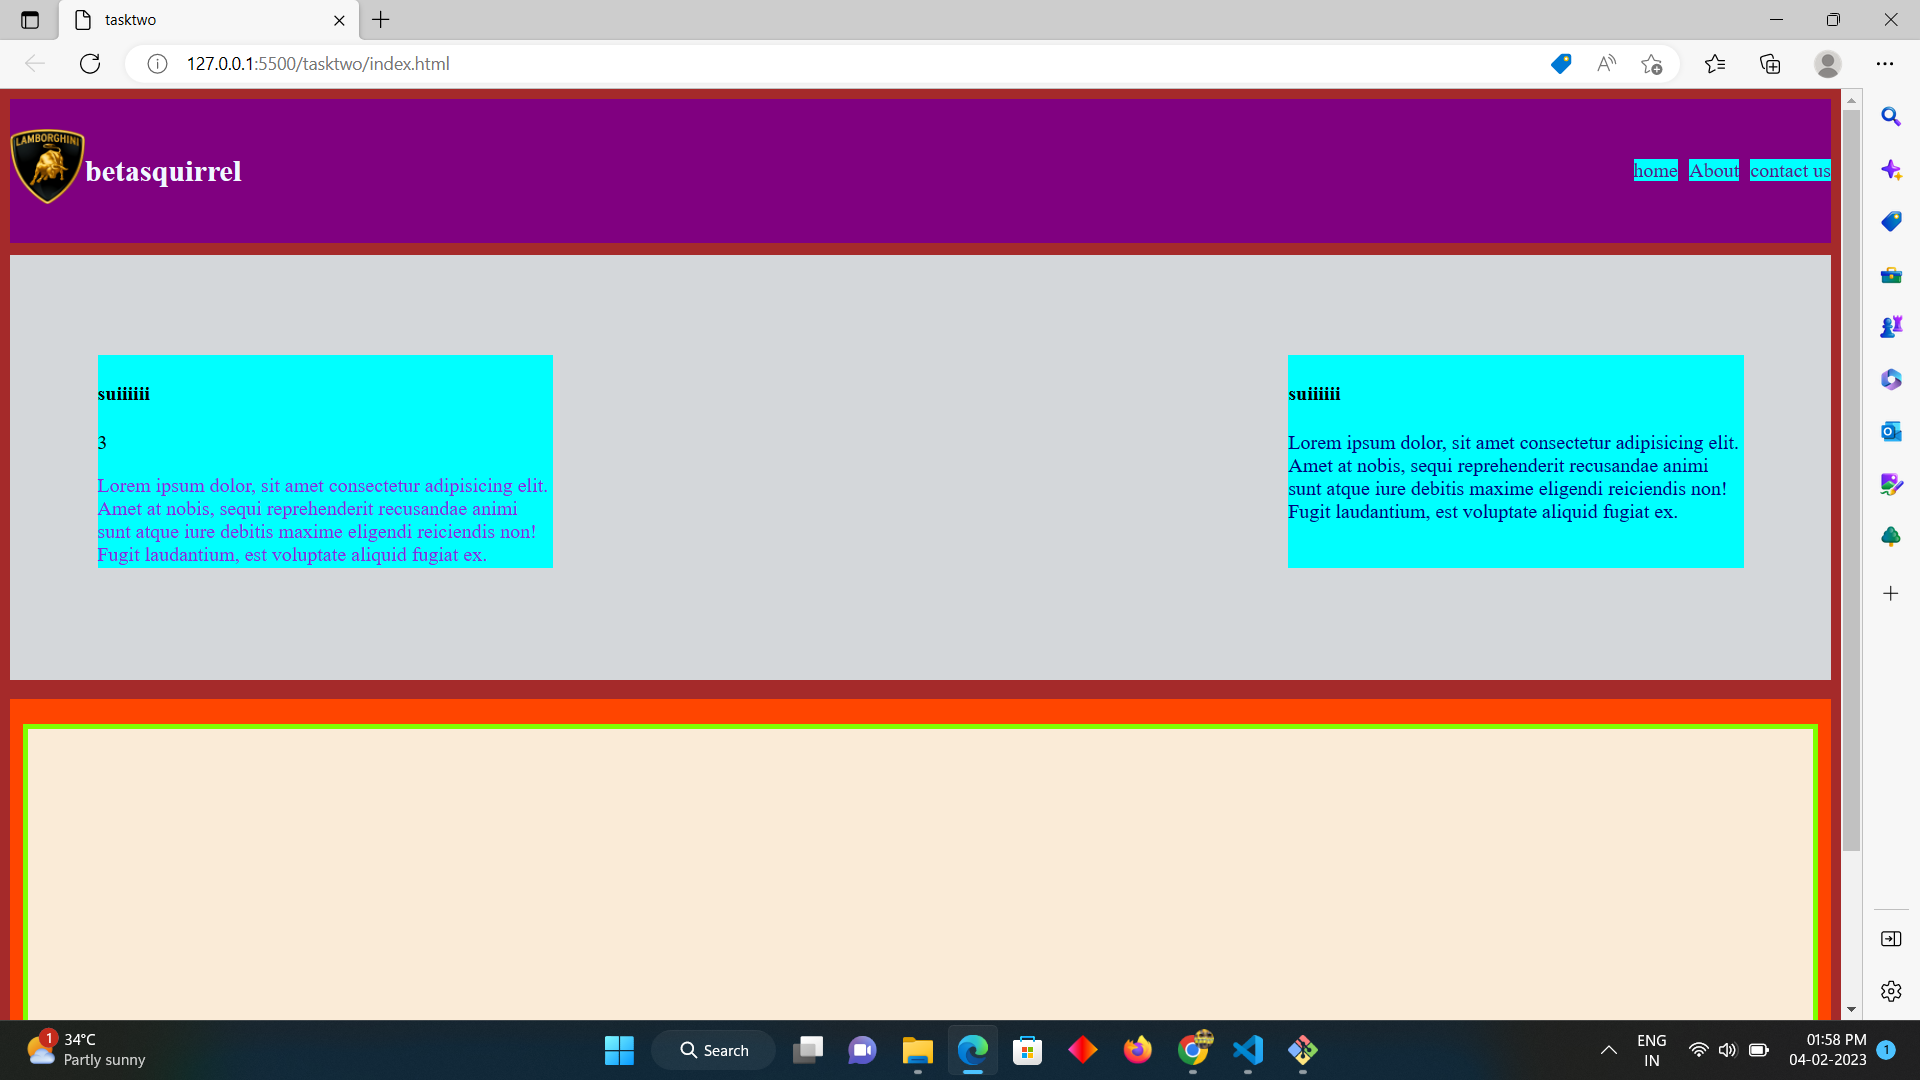
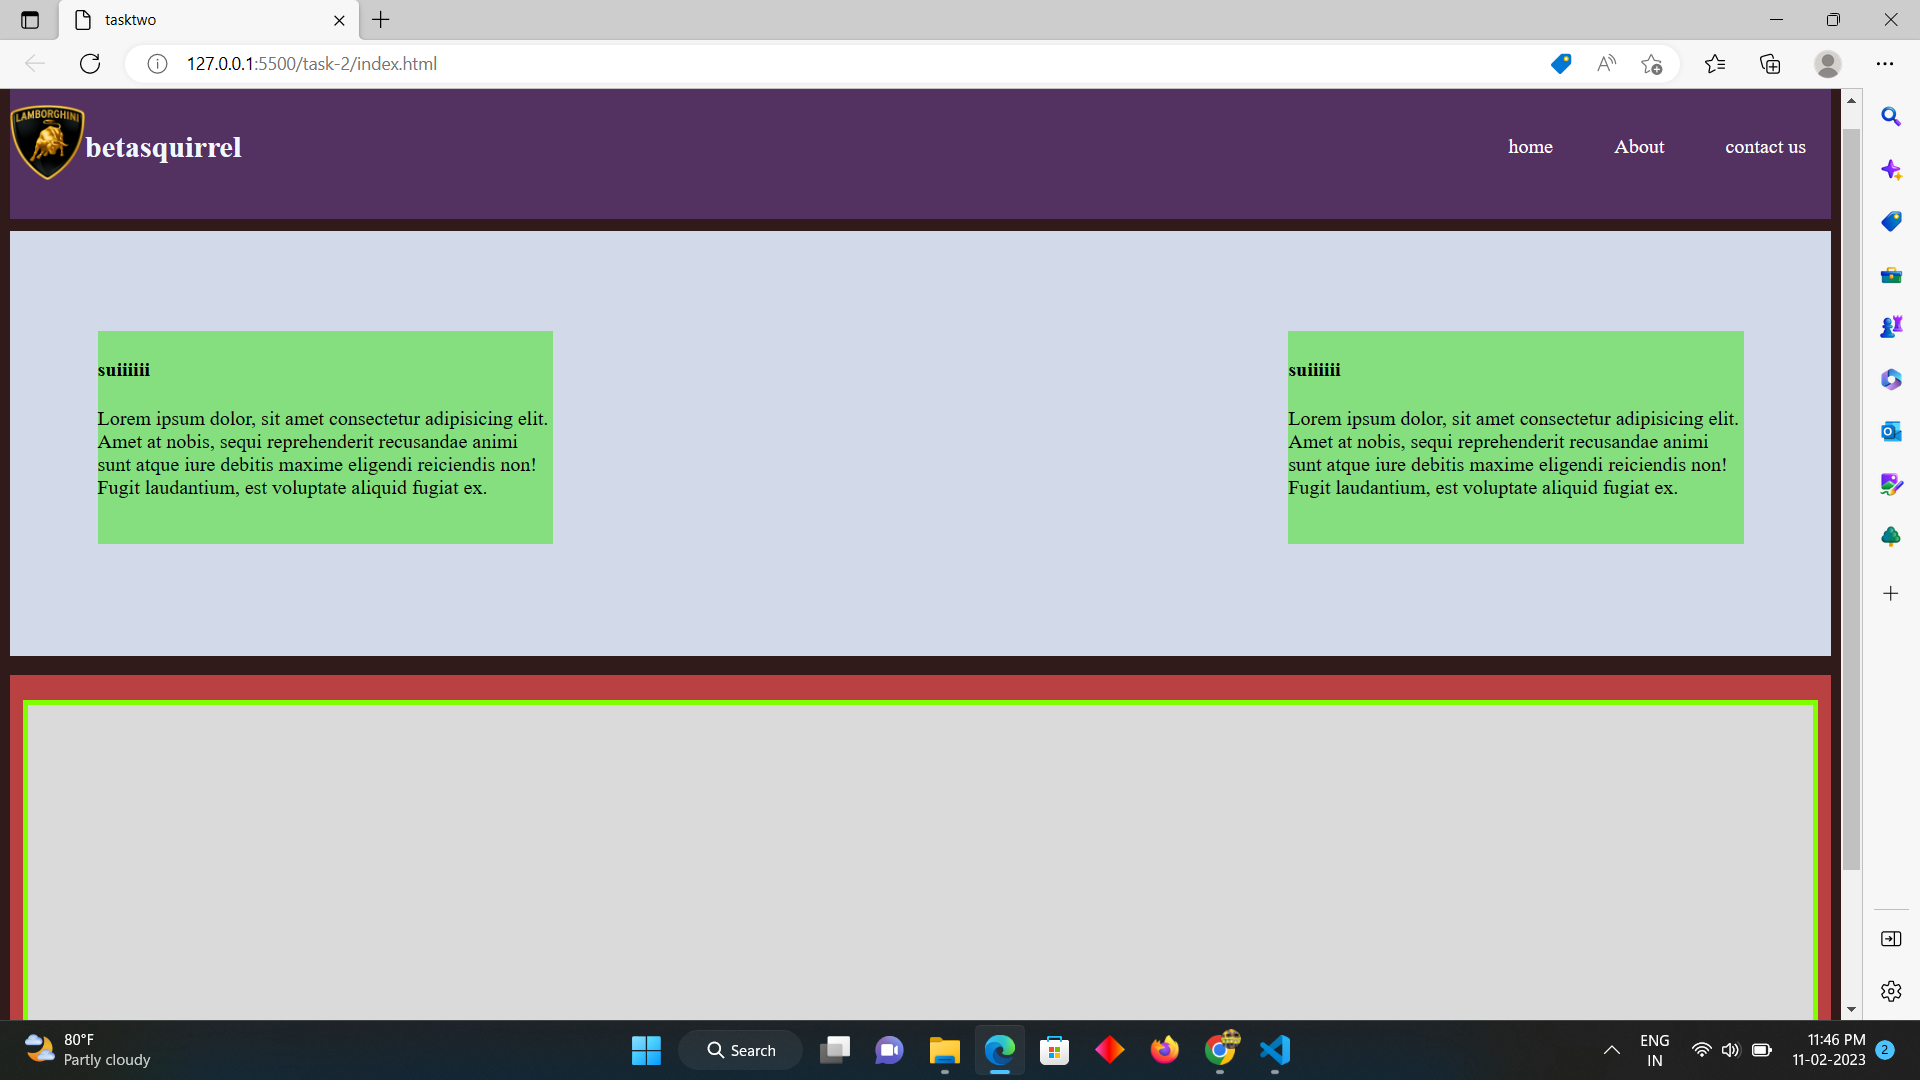
task-2 and readme updated

diff --git a/task-2/css/style.css b/task-2/css/style.css
@@ -1,25 +1,25 @@
 body {
-  background-color: brown;
+  background-color: rgb(48, 27, 26);
 }
 #topbar {
-  background-color: purple;
+  background-color: rgb(83, 49, 97);
   height: 115px;
   display: flex;
   justify-content: space-between;
 }
 #mainbar {
-  background-color: rgb(212, 215, 218);
+  background-color: rgb(210, 217, 233);
   height: 340px;
   width: 100%;
   margin-top: 10px;
 }
 #thirdbox {
-  background-color: orangered;
+  background-color: rgb(185, 65, 66);
   height: 400px;
   margin-top: 15px;
 }
 #thirdfirstbox {
-  background-color: antiquewhite;
+  background-color: rgb(218, 218, 218);
   height: 90%;
   width: 98%;
   margin: 0 auto;
